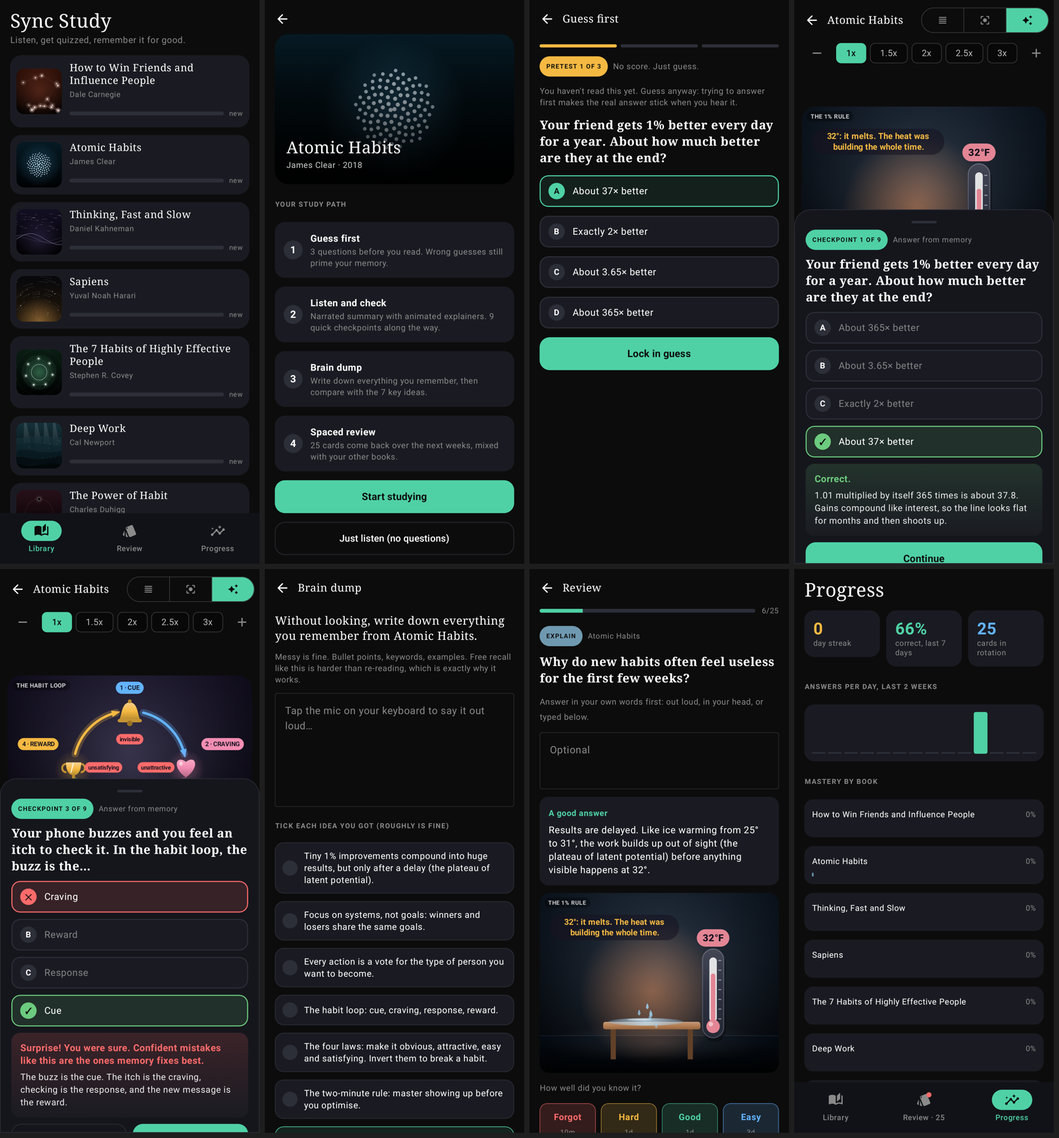
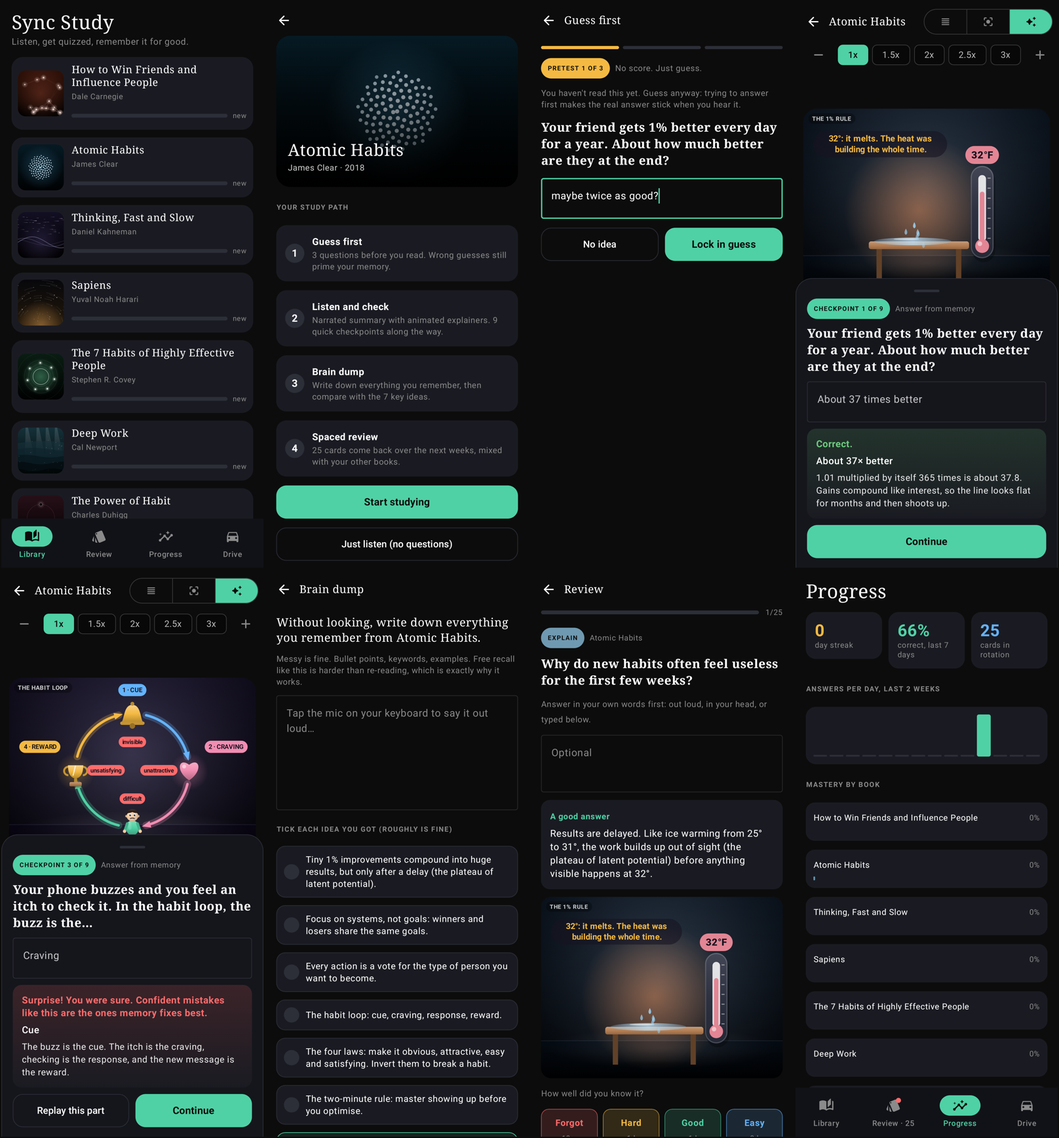
Sync Study: type answers from memory instead of picking options
Checkpoints, review cards and the pretest no longer show multiple-choice
options. You type an answer (or tap I don't know), rate confidence, and it is
scored by key words against the right answer; when scoring can't decide you
compare with the answer and say whether you had it. Numbers must match exactly.
Pretest guesses are stored as text, migrating old picks.

Claude-Session: https://claude.ai/code/session_01SugGbdouwsKtn5RCdE1249

diff --git a/sync-study-android/app/src/main/java/com/aidantorrence/syncstudy/StudyUi.kt b/sync-study-android/app/src/main/java/com/aidantorrence/syncstudy/StudyUi.kt
@@ -18,14 +18,19 @@ import androidx.compose.foundation.layout.aspectRatio
 import androidx.compose.foundation.layout.fillMaxSize
 import androidx.compose.foundation.layout.fillMaxWidth
 import androidx.compose.foundation.layout.height
+import androidx.compose.foundation.layout.heightIn
 import androidx.compose.foundation.layout.padding
 import androidx.compose.foundation.layout.size
 import androidx.compose.foundation.layout.width
 import androidx.compose.foundation.shape.CircleShape
 import androidx.compose.foundation.shape.RoundedCornerShape
+import androidx.compose.foundation.text.KeyboardActions
+import androidx.compose.foundation.text.KeyboardOptions
 import androidx.compose.material3.Button
 import androidx.compose.material3.ButtonDefaults
 import androidx.compose.material3.OutlinedButton
+import androidx.compose.material3.OutlinedTextField
+import androidx.compose.material3.OutlinedTextFieldDefaults
 import androidx.compose.material3.Text
 import androidx.compose.runtime.Composable
 import androidx.compose.runtime.getValue
@@ -38,6 +43,8 @@ import androidx.compose.ui.draw.clip
 import androidx.compose.ui.graphics.Brush
 import androidx.compose.ui.graphics.Color
 import androidx.compose.ui.text.font.FontFamily
+import androidx.compose.ui.text.input.ImeAction
+import androidx.compose.ui.text.input.KeyboardCapitalization
 import androidx.compose.ui.text.font.FontWeight
 import androidx.compose.ui.text.rememberTextMeasurer
 import androidx.compose.ui.text.style.TextAlign
@@ -92,38 +99,36 @@ fun SceneThumb(bookId: String, paragraph: Int, modifier: Modifier = Modifier) {
     }
 }
 
-enum class OptionLook { IDLE, PICKED, RIGHT, WRONG, FADED }
+/** A free-text answer box: the learner recalls before seeing anything. Enter submits. */
+@Composable
+fun AnswerField(value: String, onChange: (String) -> Unit, enabled: Boolean, onDone: () -> Unit, placeholder: String = "Type your answer") {
+    OutlinedTextField(
+        value, onChange, Modifier.fillMaxWidth().heightIn(min = 64.dp), enabled = enabled,
+        placeholder = { Text(placeholder, color = TextMuted) },
+        keyboardOptions = KeyboardOptions(capitalization = KeyboardCapitalization.Sentences, imeAction = ImeAction.Done),
+        keyboardActions = KeyboardActions(onDone = { onDone() }),
+        colors = OutlinedTextFieldDefaults.colors(focusedBorderColor = Mint, unfocusedBorderColor = Line, cursorColor = Mint,
+            focusedTextColor = Color.White, unfocusedTextColor = Color.White, disabledTextColor = Color.White.copy(alpha = 0.75f),
+            disabledBorderColor = Line),
+    )
+}
 
 @Composable
-fun OptionRow(letter: Char, text: String, look: OptionLook, onClick: (() -> Unit)?) {
-    val border by animateColorAsState(
-        when (look) { OptionLook.PICKED -> Mint; OptionLook.RIGHT -> Pal.Leaf; OptionLook.WRONG -> Pal.Coral; else -> Line }, label = "b")
-    val bg = when (look) {
-        OptionLook.RIGHT -> Pal.Leaf.copy(alpha = 0.14f)
-        OptionLook.WRONG -> Pal.Coral.copy(alpha = 0.14f)
-        OptionLook.PICKED -> Mint.copy(alpha = 0.10f)
-        else -> Card2
-    }
-    Row(
-        Modifier.fillMaxWidth().clip(RoundedCornerShape(14.dp)).background(bg).border(1.5.dp, border, RoundedCornerShape(14.dp))
-            .then(if (onClick != null) Modifier.clickable(onClick = onClick) else Modifier)
-            .padding(horizontal = 14.dp, vertical = 12.dp),
-        verticalAlignment = Alignment.CenterVertically,
-    ) {
-        Box(Modifier.size(26.dp).clip(CircleShape).background(if (look == OptionLook.IDLE || look == OptionLook.FADED) Line else border), contentAlignment = Alignment.Center) {
-            Text(
-                when (look) { OptionLook.RIGHT -> "✓"; OptionLook.WRONG -> "✕"; else -> letter.toString() },
-                color = if (look == OptionLook.IDLE || look == OptionLook.FADED) Color.White else Background, fontWeight = FontWeight.Bold, fontSize = 13.sp,
-            )
+private fun ChoiceRow(choices: List<Pair<String, () -> Unit>>) {
+    Row(horizontalArrangement = Arrangement.spacedBy(8.dp)) {
+        choices.forEach { (l, onClick) ->
+            Box(
+                Modifier.weight(1f).clip(RoundedCornerShape(12.dp)).background(Line).clickable(onClick = onClick).padding(vertical = 12.dp),
+                contentAlignment = Alignment.Center,
+            ) { Text(l, color = Color.White, fontWeight = FontWeight.SemiBold, fontSize = 14.sp) }
         }
-        Spacer(Modifier.width(12.dp))
-        Text(text, color = Color.White.copy(alpha = if (look == OptionLook.FADED) 0.45f else 1f), fontSize = 15.sp, lineHeight = 20.sp)
     }
 }
 
 /**
- * A multiple-choice question with a confidence step before the reveal.
- * Calls [onResult] once, when the answer is revealed; [footer] renders actions after the reveal.
+ * A multiple-choice card asked with no options shown: the learner types an answer from memory, rates their
+ * confidence, then sees the answer. Typed answers are scored by key words; when that can't decide, the learner
+ * compares with the answer and says whether theirs matched. Calls [onResult] once; [footer] renders after the reveal.
  */
 @Composable
 fun McqPanel(
@@ -133,61 +138,74 @@ fun McqPanel(
     footer: @Composable (correct: Boolean) -> Unit,
     askConfidence: Boolean = true,
 ) {
-    val order = remember(card.id, salt) { card.options.indices.shuffled(java.util.Random((card.id.hashCode() * 31L + salt))) }
-    var picked by remember(card.id, salt) { mutableStateOf<Int?>(null) }
-    var revealed by remember(card.id, salt) { mutableStateOf<Confidence?>(null) }
-    Column(verticalArrangement = Arrangement.spacedBy(10.dp)) {
-        Text(card.question, color = Color.White, fontSize = 19.sp, lineHeight = 26.sp, fontWeight = FontWeight.SemiBold, fontFamily = FontFamily.Serif)
-        order.forEachIndexed { pos, i ->
-            val look = when {
-                revealed != null && i == card.answer -> OptionLook.RIGHT
-                revealed != null && i == picked -> OptionLook.WRONG
-                revealed != null -> OptionLook.FADED
-                i == picked -> OptionLook.PICKED
-                else -> OptionLook.IDLE
-            }
-            OptionRow('A' + pos, card.options[i], look, if (revealed == null) ({
-                picked = i
-                if (!askConfidence) { revealed = Confidence.UNSURE; onResult(i == card.answer, Confidence.UNSURE) }
-            }) else null)
+    val q = remember(card.id) { spoken(card) }
+    var typed by remember(card.id, salt) { mutableStateOf("") }
+    var submitted by remember(card.id, salt) { mutableStateOf(false) }
+    var conf by remember(card.id, salt) { mutableStateOf<Confidence?>(null) }
+    var correct by remember(card.id, salt) { mutableStateOf<Boolean?>(null) }
+    var gaveUp by remember(card.id, salt) { mutableStateOf(false) }
+    fun settle(c: Confidence) {
+        conf = c
+        when (judgeOpen(typed, card)) {
+            Verdict.RIGHT -> { correct = true; onResult(true, c) }
+            Verdict.WRONG -> { correct = false; onResult(false, c) }
+            Verdict.UNCLEAR -> Unit // the learner compares with the answer below
         }
-        AnimatedVisibility(picked != null && revealed == null && askConfidence, enter = fadeIn() + expandVertically()) {
+    }
+    fun submit() {
+        if (typed.isBlank() || submitted) return
+        submitted = true
+        if (!askConfidence) settle(Confidence.UNSURE)
+    }
+    Column(verticalArrangement = Arrangement.spacedBy(10.dp)) {
+        Text(q.prompt, color = Color.White, fontSize = 19.sp, lineHeight = 26.sp, fontWeight = FontWeight.SemiBold, fontFamily = FontFamily.Serif)
+        AnswerField(typed, { typed = it }, enabled = !submitted, onDone = ::submit)
+        if (!submitted) {
+            Row(horizontalArrangement = Arrangement.spacedBy(10.dp)) {
+                SecondaryButton("I don't know", {
+                    submitted = true; gaveUp = true; conf = Confidence.GUESS; correct = false; onResult(false, Confidence.GUESS)
+                }, Modifier.weight(1f))
+                PrimaryButton("Check", ::submit, Modifier.weight(1f), enabled = typed.isNotBlank())
+            }
+        }
+        AnimatedVisibility(submitted && conf == null, enter = fadeIn() + expandVertically()) {
             Column {
                 Text("How sure are you?", color = TextMuted, fontSize = 13.sp, modifier = Modifier.padding(top = 4.dp, bottom = 6.dp))
-                Row(horizontalArrangement = Arrangement.spacedBy(8.dp)) {
-                    listOf(Confidence.GUESS to "Guessing", Confidence.UNSURE to "Fairly sure", Confidence.SURE to "Certain").forEach { (c, l) ->
-                        Box(
-                            Modifier.weight(1f).clip(RoundedCornerShape(12.dp)).background(Line).clickable {
-                                revealed = c
-                                onResult(picked == card.answer, c)
-                            }.padding(vertical = 12.dp),
-                            contentAlignment = Alignment.Center,
-                        ) { Text(l, color = Color.White, fontWeight = FontWeight.SemiBold, fontSize = 14.sp) }
-                    }
-                }
+                ChoiceRow(listOf("Guessing" to { settle(Confidence.GUESS) }, "Fairly sure" to { settle(Confidence.UNSURE) }, "Certain" to { settle(Confidence.SURE) }))
             }
         }
-        val conf = revealed
-        if (conf != null) {
-            val correct = picked == card.answer
+        val c = conf
+        if (c != null) {
+            val ok = correct
             Column(
                 Modifier.fillMaxWidth().clip(RoundedCornerShape(14.dp))
-                    .background(Brush.verticalGradient(listOf((if (correct) Pal.Leaf else Pal.Coral).copy(alpha = 0.16f), Card2)))
+                    .background(Brush.verticalGradient(listOf((when (ok) { true -> Pal.Leaf; false -> Pal.Coral; null -> Mint }).copy(alpha = 0.16f), Card2)))
                     .padding(14.dp),
                 verticalArrangement = Arrangement.spacedBy(6.dp),
             ) {
                 Text(
                     when {
-                        correct && conf == Confidence.GUESS -> "Right, and now you know why."
-                        correct -> "Correct."
-                        conf == Confidence.SURE -> "Surprise! You were sure. Confident mistakes like this are the ones memory fixes best."
+                        ok == null -> "Compare with your answer"
+                        gaveUp -> "Here's the answer."
+                        ok && c == Confidence.GUESS -> "Right, and now you know why."
+                        ok -> "Correct."
+                        c == Confidence.SURE -> "Surprise! You were sure. Confident mistakes like this are the ones memory fixes best."
                         else -> "Not quite."
                     },
-                    color = if (correct) Pal.Leaf else Pal.Coral, fontWeight = FontWeight.Bold, fontSize = 15.sp, lineHeight = 20.sp,
+                    color = when (ok) { true -> Pal.Leaf; false -> Pal.Coral; null -> Mint }, fontWeight = FontWeight.Bold, fontSize = 15.sp, lineHeight = 20.sp,
                 )
+                Text(q.answer, color = Color.White, fontWeight = FontWeight.SemiBold, fontSize = 15.sp, lineHeight = 21.sp)
                 Text(card.why, color = Color.White.copy(alpha = 0.9f), fontSize = 14.sp, lineHeight = 20.sp)
             }
-            footer(correct)
+            if (ok == null) {
+                Text("Did you get it?", color = TextMuted, fontSize = 13.sp)
+                ChoiceRow(listOf(
+                    "No" to { correct = false; onResult(false, c) },
+                    "Yes, I had it" to { correct = true; onResult(true, c) },
+                ))
+            } else {
+                footer(ok)
+            }
         }
     }
 }

diff --git a/sync-study-android/app/src/main/java/com/aidantorrence/syncstudy/StudyScreens.kt b/sync-study-android/app/src/main/java/com/aidantorrence/syncstudy/StudyScreens.kt
@@ -323,14 +323,14 @@ private fun PretestScreen(bookId: String, index: Int, study: StudyViewModel) {
             }
             Text("You haven't read this yet. Guess anyway: trying to answer first makes the real answer stick when you hear it.",
                 color = TextMuted, fontSize = 13.sp, lineHeight = 18.sp)
-            var chosen by remember(card.id) { mutableStateOf<Int?>(null) }
-            val order = remember(card.id) { card.options.indices.shuffled(java.util.Random(card.id.hashCode().toLong())) }
-            Text(card.question, color = Color.White, fontSize = 19.sp, lineHeight = 26.sp, fontWeight = FontWeight.SemiBold, fontFamily = FontFamily.Serif)
-            order.forEachIndexed { pos, i ->
-                OptionRow('A' + pos, card.options[i], if (chosen == i) OptionLook.PICKED else OptionLook.IDLE) { chosen = i }
+            var guess by remember(card.id) { mutableStateOf("") }
+            val last = index + 1 >= pre.size
+            Text(spoken(card).prompt, color = Color.White, fontSize = 19.sp, lineHeight = 26.sp, fontWeight = FontWeight.SemiBold, fontFamily = FontFamily.Serif)
+            AnswerField(guess, { guess = it }, enabled = true, onDone = { if (guess.isNotBlank()) study.answerPretest(bookId, index, guess) }, placeholder = "Your best guess")
+            Row(horizontalArrangement = Arrangement.spacedBy(10.dp)) {
+                SecondaryButton("No idea", { study.answerPretest(bookId, index, "") }, Modifier.weight(1f))
+                PrimaryButton(if (last) "Lock in, start" else "Lock in guess", { study.answerPretest(bookId, index, guess) }, Modifier.weight(1f), enabled = guess.isNotBlank())
             }
-            PrimaryButton(if (index + 1 < pre.size) "Lock in guess" else "Lock in and start listening",
-                { chosen?.let { study.answerPretest(bookId, index, it) } }, Modifier.fillMaxWidth(), enabled = chosen != null)
         }
     }
 }
@@ -453,12 +453,13 @@ private fun SummaryScreen(bookId: String, study: StudyViewModel) {
             if (s.pretest.isNotEmpty()) {
                 SectionLabel("Your first guesses, now with answers")
                 s.pretest.forEach { c ->
-                    val g = StudyStore.pretestChoice(c.id)
-                    val right = g == c.answer
+                    val g = StudyStore.pretestGuess(c.id)
+                    val q = spoken(c)
+                    val right = !g.isNullOrBlank() && judgeOpen(g, c) == Verdict.RIGHT
                     Column(Modifier.fillMaxWidth().clip(RoundedCornerShape(14.dp)).background(Card2).padding(12.dp), verticalArrangement = Arrangement.spacedBy(4.dp)) {
-                        Text(c.question, color = Color.White, fontSize = 14.sp, lineHeight = 19.sp)
-                        if (g != null) Text("You guessed: ${c.options[g]}", color = if (right) Pal.Leaf else Pal.Coral, fontSize = 13.sp)
-                        if (!right) Text("Answer: ${c.options[c.answer]}", color = Pal.Leaf, fontSize = 13.sp)
+                        Text(q.prompt, color = Color.White, fontSize = 14.sp, lineHeight = 19.sp)
+                        if (g != null) Text(if (g.isBlank()) "You had no idea yet" else "You guessed: $g", color = if (right) Pal.Leaf else Pal.Coral, fontSize = 13.sp)
+                        if (!right) Text("Answer: ${q.answer}", color = Pal.Leaf, fontSize = 13.sp)
                     }
                 }
             }
@@ -494,7 +495,7 @@ private fun ReviewScreen(study: StudyViewModel) {
                 Column(Modifier.fillMaxSize().verticalScroll(rememberScrollState()), verticalArrangement = Arrangement.spacedBy(12.dp)) {
                     val book = findBook(card.bookId)
                     Row(verticalAlignment = Alignment.CenterVertically) {
-                        Pill(when (card) { is Mcq -> "Choose"; is Recall -> "Explain"; is Cloze -> "Fill the gap" }, Color(book?.color ?: 0xFF4FD1A5).lighten(0.3f))
+                        Pill(when (card) { is Mcq -> "Recall"; is Recall -> "Explain"; is Cloze -> "Fill the gap" }, Color(book?.color ?: 0xFF4FD1A5).lighten(0.3f))
                         Spacer(Modifier.width(8.dp))
                         Text(book?.title ?: "", color = TextMuted, fontSize = 12.sp, maxLines = 1, overflow = TextOverflow.Ellipsis)
                     }

diff --git a/sync-study-android/app/src/main/java/com/aidantorrence/syncstudy/StudyStore.kt b/sync-study-android/app/src/main/java/com/aidantorrence/syncstudy/StudyStore.kt
@@ -17,7 +17,7 @@ object Stage { const val NEW = 0; const val PRETESTED = 1; const val READ = 2; c
 object StudyStore {
     private var prefs: SharedPreferences? = null
     private val states = HashMap<String, CardState>()
-    private val pretest = HashMap<String, Int>()
+    private val pretest = HashMap<String, String>()
     private val stages = HashMap<String, Int>()
     private val recall = HashMap<String, Float>()
     private val log = HashMap<Long, IntArray>()
@@ -73,8 +73,9 @@ object StudyStore {
     fun stage(bookId: String): Int = stages[bookId] ?: Stage.NEW
     fun advance(bookId: String, to: Int) { if (to > stage(bookId)) { stages[bookId] = to; changed() } }
 
-    fun setPretest(cardId: String, choice: Int) { pretest[cardId] = choice; changed() }
-    fun pretestChoice(cardId: String): Int? = pretest[cardId]
+    /** The learner's typed pretest guess ("" when they had no idea). */
+    fun setPretest(cardId: String, guess: String) { pretest[cardId] = guess; changed() }
+    fun pretestGuess(cardId: String): String? = pretest[cardId]
 
     fun setRecallScore(bookId: String, score: Float) { recall[bookId] = score; changed() }
     fun recallScore(bookId: String): Float? = recall[bookId]
@@ -114,7 +115,7 @@ object StudyStore {
         for ((k, v) in log) lg.put(k.toString(), JSONArray(listOf(v[0], v[1])))
         p.edit()
             .putString("states", st.toString())
-            .putString("pretest", JSONObject(pretest.mapValues { it.value } as Map<*, *>).toString())
+            .putString("guesses", JSONObject(pretest as Map<*, *>).toString())
             .putString("stages", JSONObject(stages as Map<*, *>).toString())
             .putString("recall", JSONObject(recall.mapValues { it.value.toDouble() } as Map<*, *>).toString())
             .putString("log", lg.toString())
@@ -129,7 +130,11 @@ object StudyStore {
                 val a = st.getJSONArray(k)
                 states[k] = CardState(a.getDouble(0).toFloat(), a.getDouble(1).toFloat(), a.getLong(2), a.getInt(3), a.getInt(4), a.getLong(5), a.getInt(6) == 1)
             }
-            val pt = JSONObject(p.getString("pretest", "{}")!!); for (k in pt.keys()) pretest[k] = pt.getInt(k)
+            val gs = JSONObject(p.getString("guesses", "{}")!!); for (k in gs.keys()) pretest[k] = gs.getString(k)
+            // Older versions stored the index of a picked option.
+            val old = JSONObject(p.getString("pretest", "{}")!!)
+            for (k in old.keys()) if (k !in pretest) (STUDY.values.firstNotNullOfOrNull { s -> s.cards.find { it.id == k } } as? Mcq)
+                ?.let { pretest[k] = it.options.getOrElse(old.getInt(k)) { "" } }
             val sg = JSONObject(p.getString("stages", "{}")!!); for (k in sg.keys()) stages[k] = sg.getInt(k)
             val rc = JSONObject(p.getString("recall", "{}")!!); for (k in rc.keys()) recall[k] = rc.getDouble(k).toFloat()
             val lg = JSONObject(p.getString("log", "{}")!!); for (k in lg.keys()) { val a = lg.getJSONArray(k); log[k.toLong()] = intArrayOf(a.getInt(0), a.getInt(1)) }

diff --git a/sync-study-android/app/src/test/java/com/aidantorrence/syncstudy/StudyScreensTest.kt b/sync-study-android/app/src/test/java/com/aidantorrence/syncstudy/StudyScreensTest.kt
@@ -4,7 +4,9 @@ import android.app.Application
 import androidx.compose.runtime.Composable
 import androidx.compose.runtime.CompositionLocalProvider
 import androidx.compose.ui.test.junit4.createComposeRule
+import androidx.compose.ui.test.hasSetTextAction
 import androidx.compose.ui.test.onNodeWithText
+import androidx.compose.ui.test.performTextInput
 import androidx.compose.ui.test.onRoot
 import androidx.compose.ui.test.performClick
 import androidx.test.core.app.ApplicationProvider
@@ -55,20 +57,22 @@ class StudyScreensTest {
 
     @Test fun pretest() {
         study.go(Route.Pretest("atomic-habits", 0)); show { SyncStudyApp(reader, study) }
-        rule.onNodeWithText("About 37× better").performClick(); shot("04-pretest")
+        rule.onNode(hasSetTextAction()).performTextInput("maybe twice as good?"); shot("04-pretest")
     }
 
     @Test fun checkpoint() {
         study.go(Route.Read("atomic-habits")); show { SyncStudyApp(reader, study) }
         rule.waitForIdle(); reader.checkpointForTest(0); shot("05-checkpoint")
-        rule.onNodeWithText("About 37× better").performClick(); shot("06-checkpoint-confidence")
+        rule.onNode(hasSetTextAction()).performTextInput("About 37 times better")
+        rule.onNodeWithText("Check").performClick(); shot("06-checkpoint-confidence")
         rule.onNodeWithText("Fairly sure").performClick(); shot("07-checkpoint-revealed")
     }
 
     @Test fun checkpointWrongButSure() {
         study.go(Route.Read("atomic-habits")); show { SyncStudyApp(reader, study) }
         rule.waitForIdle(); reader.checkpointForTest(2)
-        rule.onNodeWithText("Craving").performClick(); rule.onNodeWithText("Certain").performClick(); shot("08-checkpoint-hypercorrection")
+        rule.onNode(hasSetTextAction()).performTextInput("Craving")
+        rule.onNodeWithText("Check").performClick(); rule.onNodeWithText("Certain").performClick(); shot("08-checkpoint-hypercorrection")
     }
 
     @Test fun recall() {

diff --git a/sync-study-android/app/src/main/java/com/aidantorrence/syncstudy/DriveModel.kt b/sync-study-android/app/src/main/java/com/aidantorrence/syncstudy/DriveModel.kt
@@ -300,7 +300,8 @@ fun yesNo(text: String): Boolean? {
 
 enum class Verdict { RIGHT, WRONG, UNCLEAR }
 
-private fun tokenMatch(heard: String, key: String) = wordsMatch(heard, key) || (key.length >= 4 && heard.startsWith(key))
+private fun tokenMatch(heard: String, key: String) =
+    if (key.any(Char::isDigit)) heard == key else wordsMatch(heard, key) || (key.length >= 4 && heard.startsWith(key))
 
 /** True when every word of [phrase] was heard (stems like "appreciat" match "appreciation"). */
 fun phraseHeard(said: String, phrase: String): Boolean {
@@ -313,7 +314,10 @@ private fun optionCoverage(said: String, option: String): Float {
     val keys = contentWords(option)
     if (keys.isEmpty()) return 0f
     val heard = normalizeSpeech(said)
-    return keys.count { k -> heard.any { tokenMatch(it, k) } }.toFloat() / keys.size
+    val hit = keys.map { k -> heard.any { tokenMatch(it, k) } }
+    // A number in the answer has to be the right number: "365 times better" is not "37 times better".
+    if (keys.indices.any { keys[it].any(Char::isDigit) && !hit[it] }) return 0f
+    return hit.count { it }.toFloat() / keys.size
 }
 
 /**

diff --git a/sync-study-android/app/src/main/java/com/aidantorrence/syncstudy/StudyViewModel.kt b/sync-study-android/app/src/main/java/com/aidantorrence/syncstudy/StudyViewModel.kt
@@ -63,13 +63,13 @@ class StudyViewModel(app: Application) : AndroidViewModel(app) {
 
     fun startBook(bookId: String) {
         val study = studyFor(bookId)
-        val unanswered = study?.pretest?.indexOfFirst { StudyStore.pretestChoice(it.id) == null } ?: -1
+        val unanswered = study?.pretest?.indexOfFirst { StudyStore.pretestGuess(it.id) == null } ?: -1
         _route.value = if (StudyStore.stage(bookId) == Stage.NEW && unanswered >= 0) Route.Pretest(bookId, unanswered) else Route.Read(bookId)
     }
 
-    fun answerPretest(bookId: String, index: Int, choice: Int) {
+    fun answerPretest(bookId: String, index: Int, guess: String) {
         val pre = studyFor(bookId)?.pretest ?: return
-        pre.getOrNull(index)?.let { StudyStore.setPretest(it.id, choice) }
+        pre.getOrNull(index)?.let { StudyStore.setPretest(it.id, guess.trim()) }
         if (index + 1 < pre.size) {
             _route.value = Route.Pretest(bookId, index + 1)
         } else {

diff --git a/sync-study-android/app/src/test/java/com/aidantorrence/syncstudy/DriveTest.kt b/sync-study-android/app/src/test/java/com/aidantorrence/syncstudy/DriveTest.kt
@@ -75,6 +75,7 @@ class DriveTest {
         assertEquals(Verdict.WRONG, judgeOpen("habits", mcq(8)))
         assertEquals(Verdict.UNCLEAR, judgeOpen("banana", mcq(8)))
         assertEquals(Verdict.RIGHT, judgeOpen("about thirty seven times better", mcq(0)))
+        assertEquals(Verdict.WRONG, judgeOpen("about 365 times better", mcq(0)))
         val ii = atomic.cards.first { it.id == "atomic-habits:3:0" } as Mcq
         assertEquals(Verdict.RIGHT, judgeOpen("it's a plan for exactly when and where you'll do it", ii))
         assertEquals(Verdict.UNCLEAR, judgeOpen("trying harder", ii))

diff --git a/sync-study-android/README.md b/sync-study-android/README.md
@@ -7,10 +7,11 @@ for every paragraph. Installs next to Sync Reader (`com.aidantorrence.syncstudy`
 ## How a book is studied
 
 1. **Guess first (pretest).** Three questions before you read. No score. Trying to answer primes memory for the
-   real answer, even when the guess is wrong.
+   real answer, even when the guess is wrong. You type a guess (or tap "No idea"); there are no options to pick from.
 2. **Listen and check.** The narrated summary plays with an animated explainer above the speed-reading word.
    At the end of every paragraph the narration pauses for a checkpoint question, answered from memory, with a
-   confidence rating before the reveal. Wrong answers can replay that paragraph. The paragraph's finished scene
+   confidence rating before the reveal. No answer options are shown anywhere: you type the answer, it's scored by
+   key words, and when it can't tell, you compare with the real answer and say whether you had it. Wrong answers can replay that paragraph. The paragraph's finished scene
    stays on screen while you answer.
 3. **Brain dump.** Write (or dictate) everything you remember, then tick off the key ideas you got.
 4. **Spaced review.** Every card is scheduled with an SM-2 style algorithm, mixed with other books, and missed
